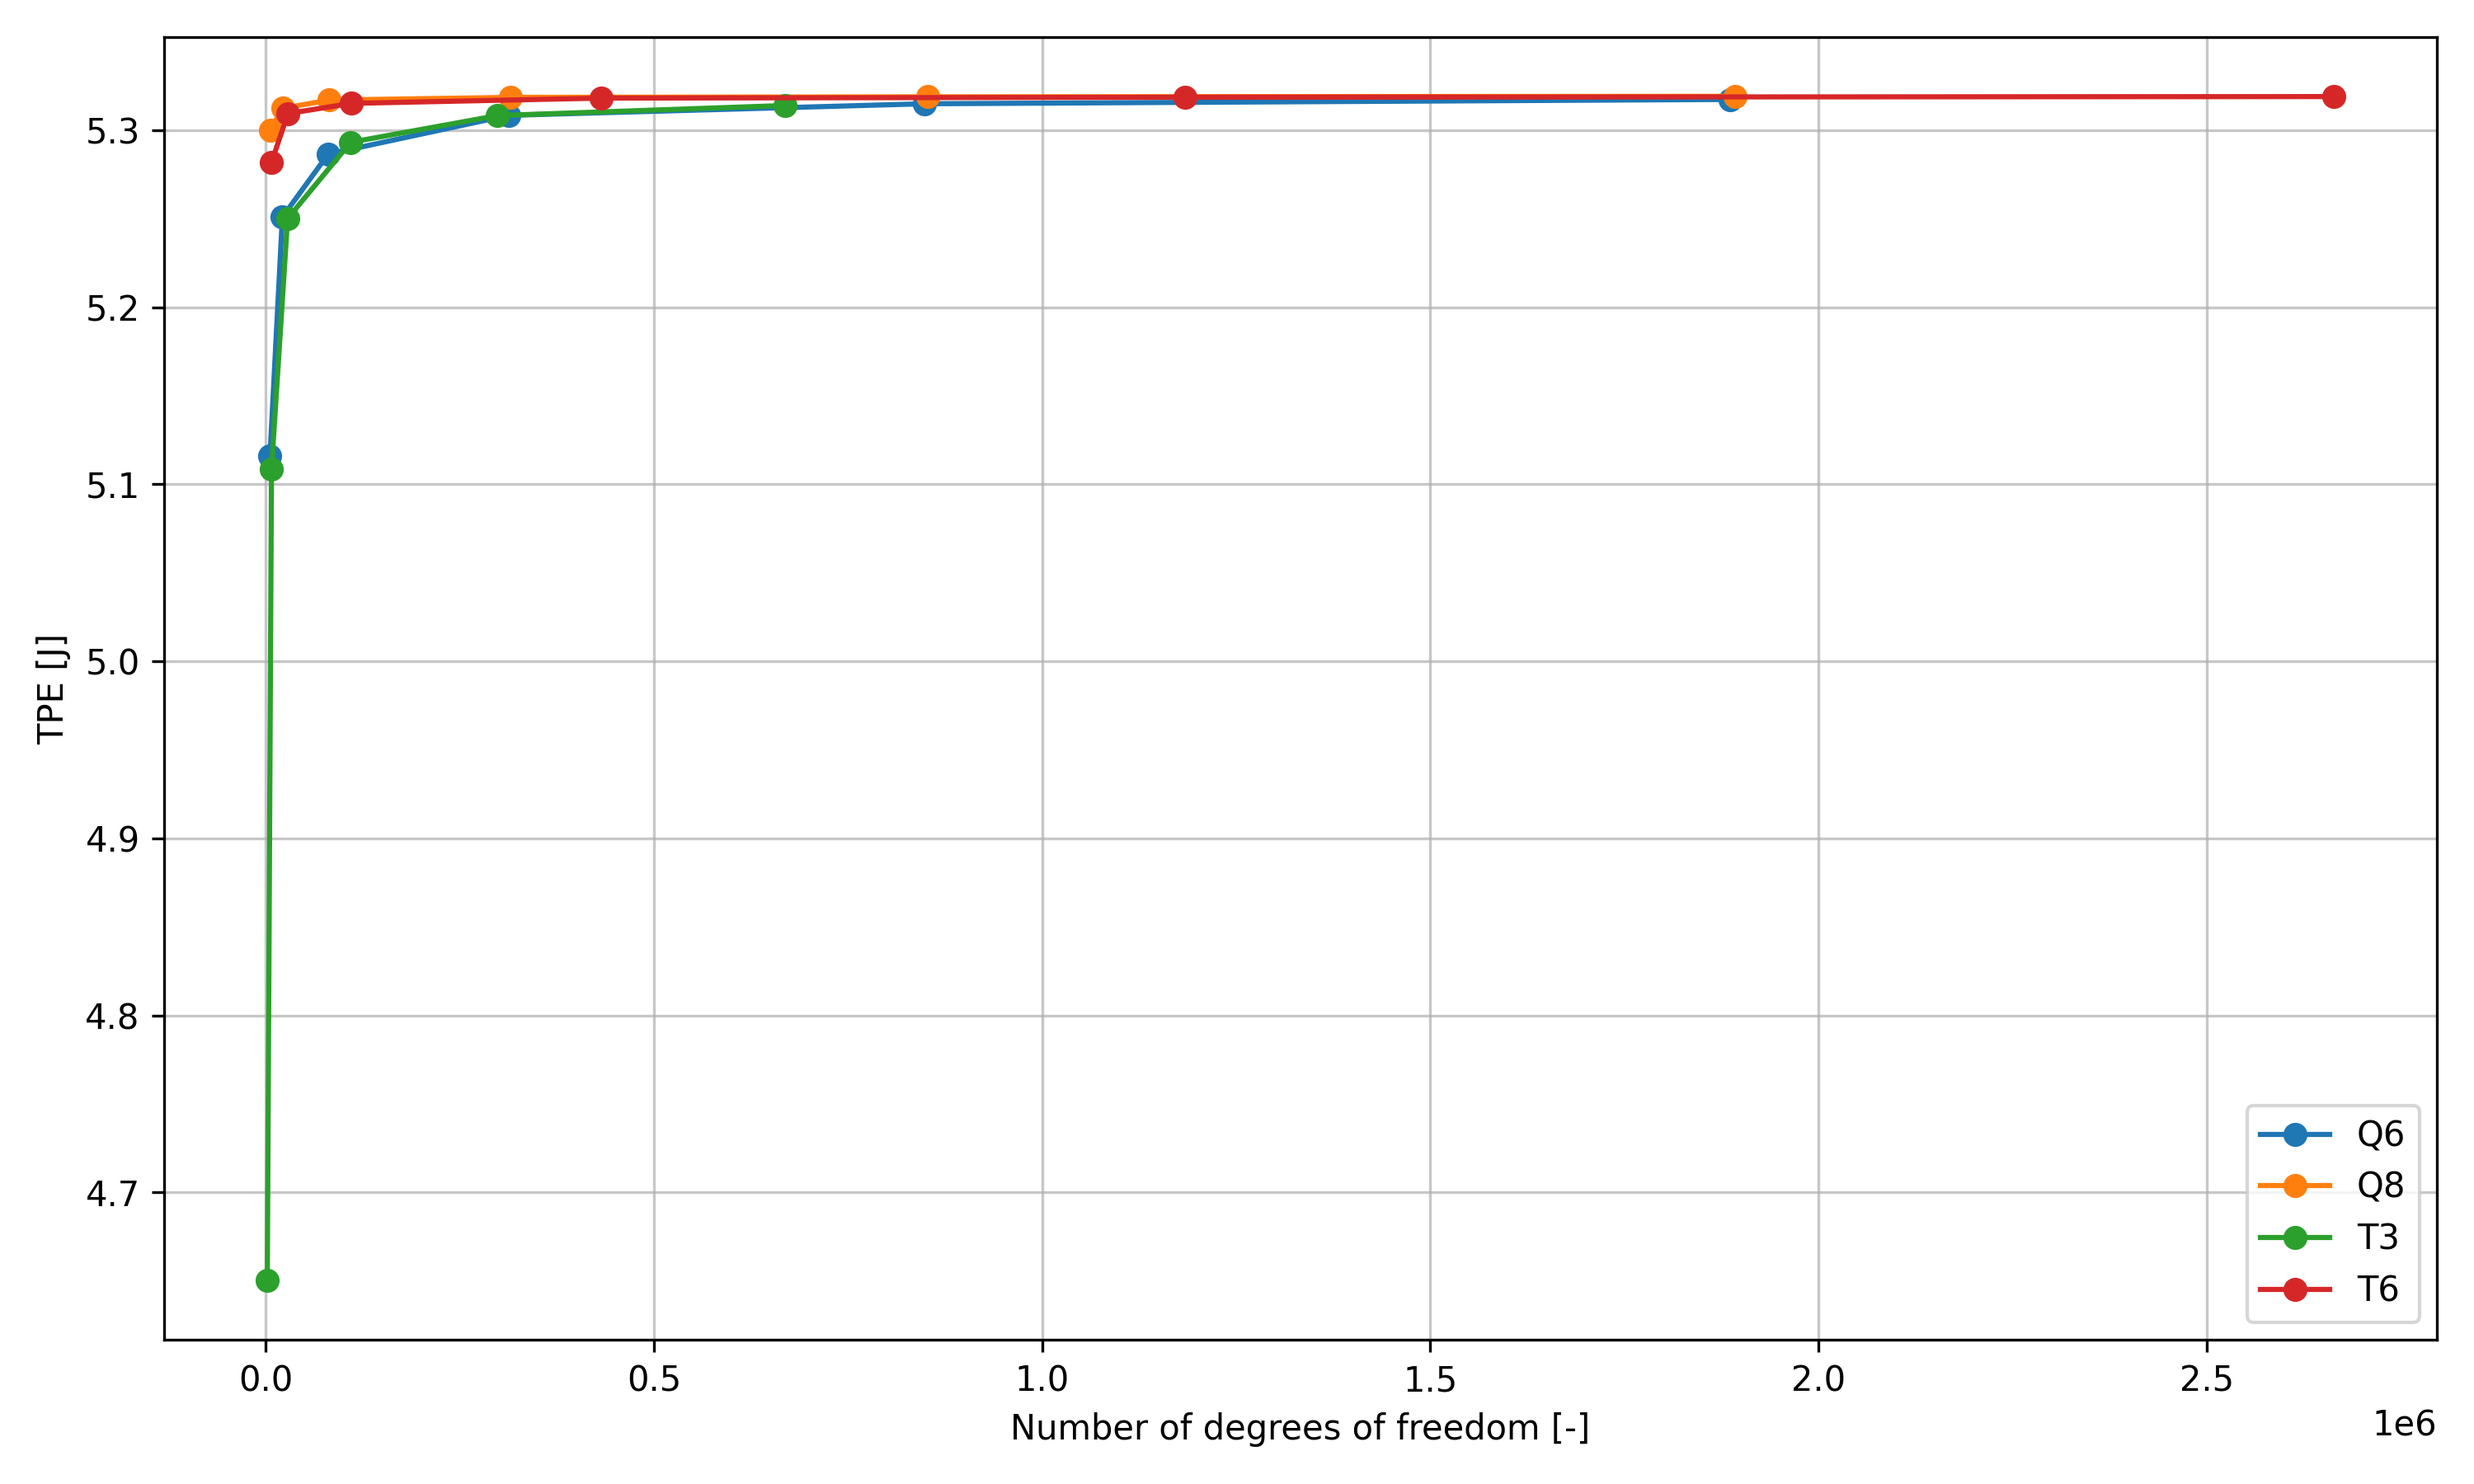
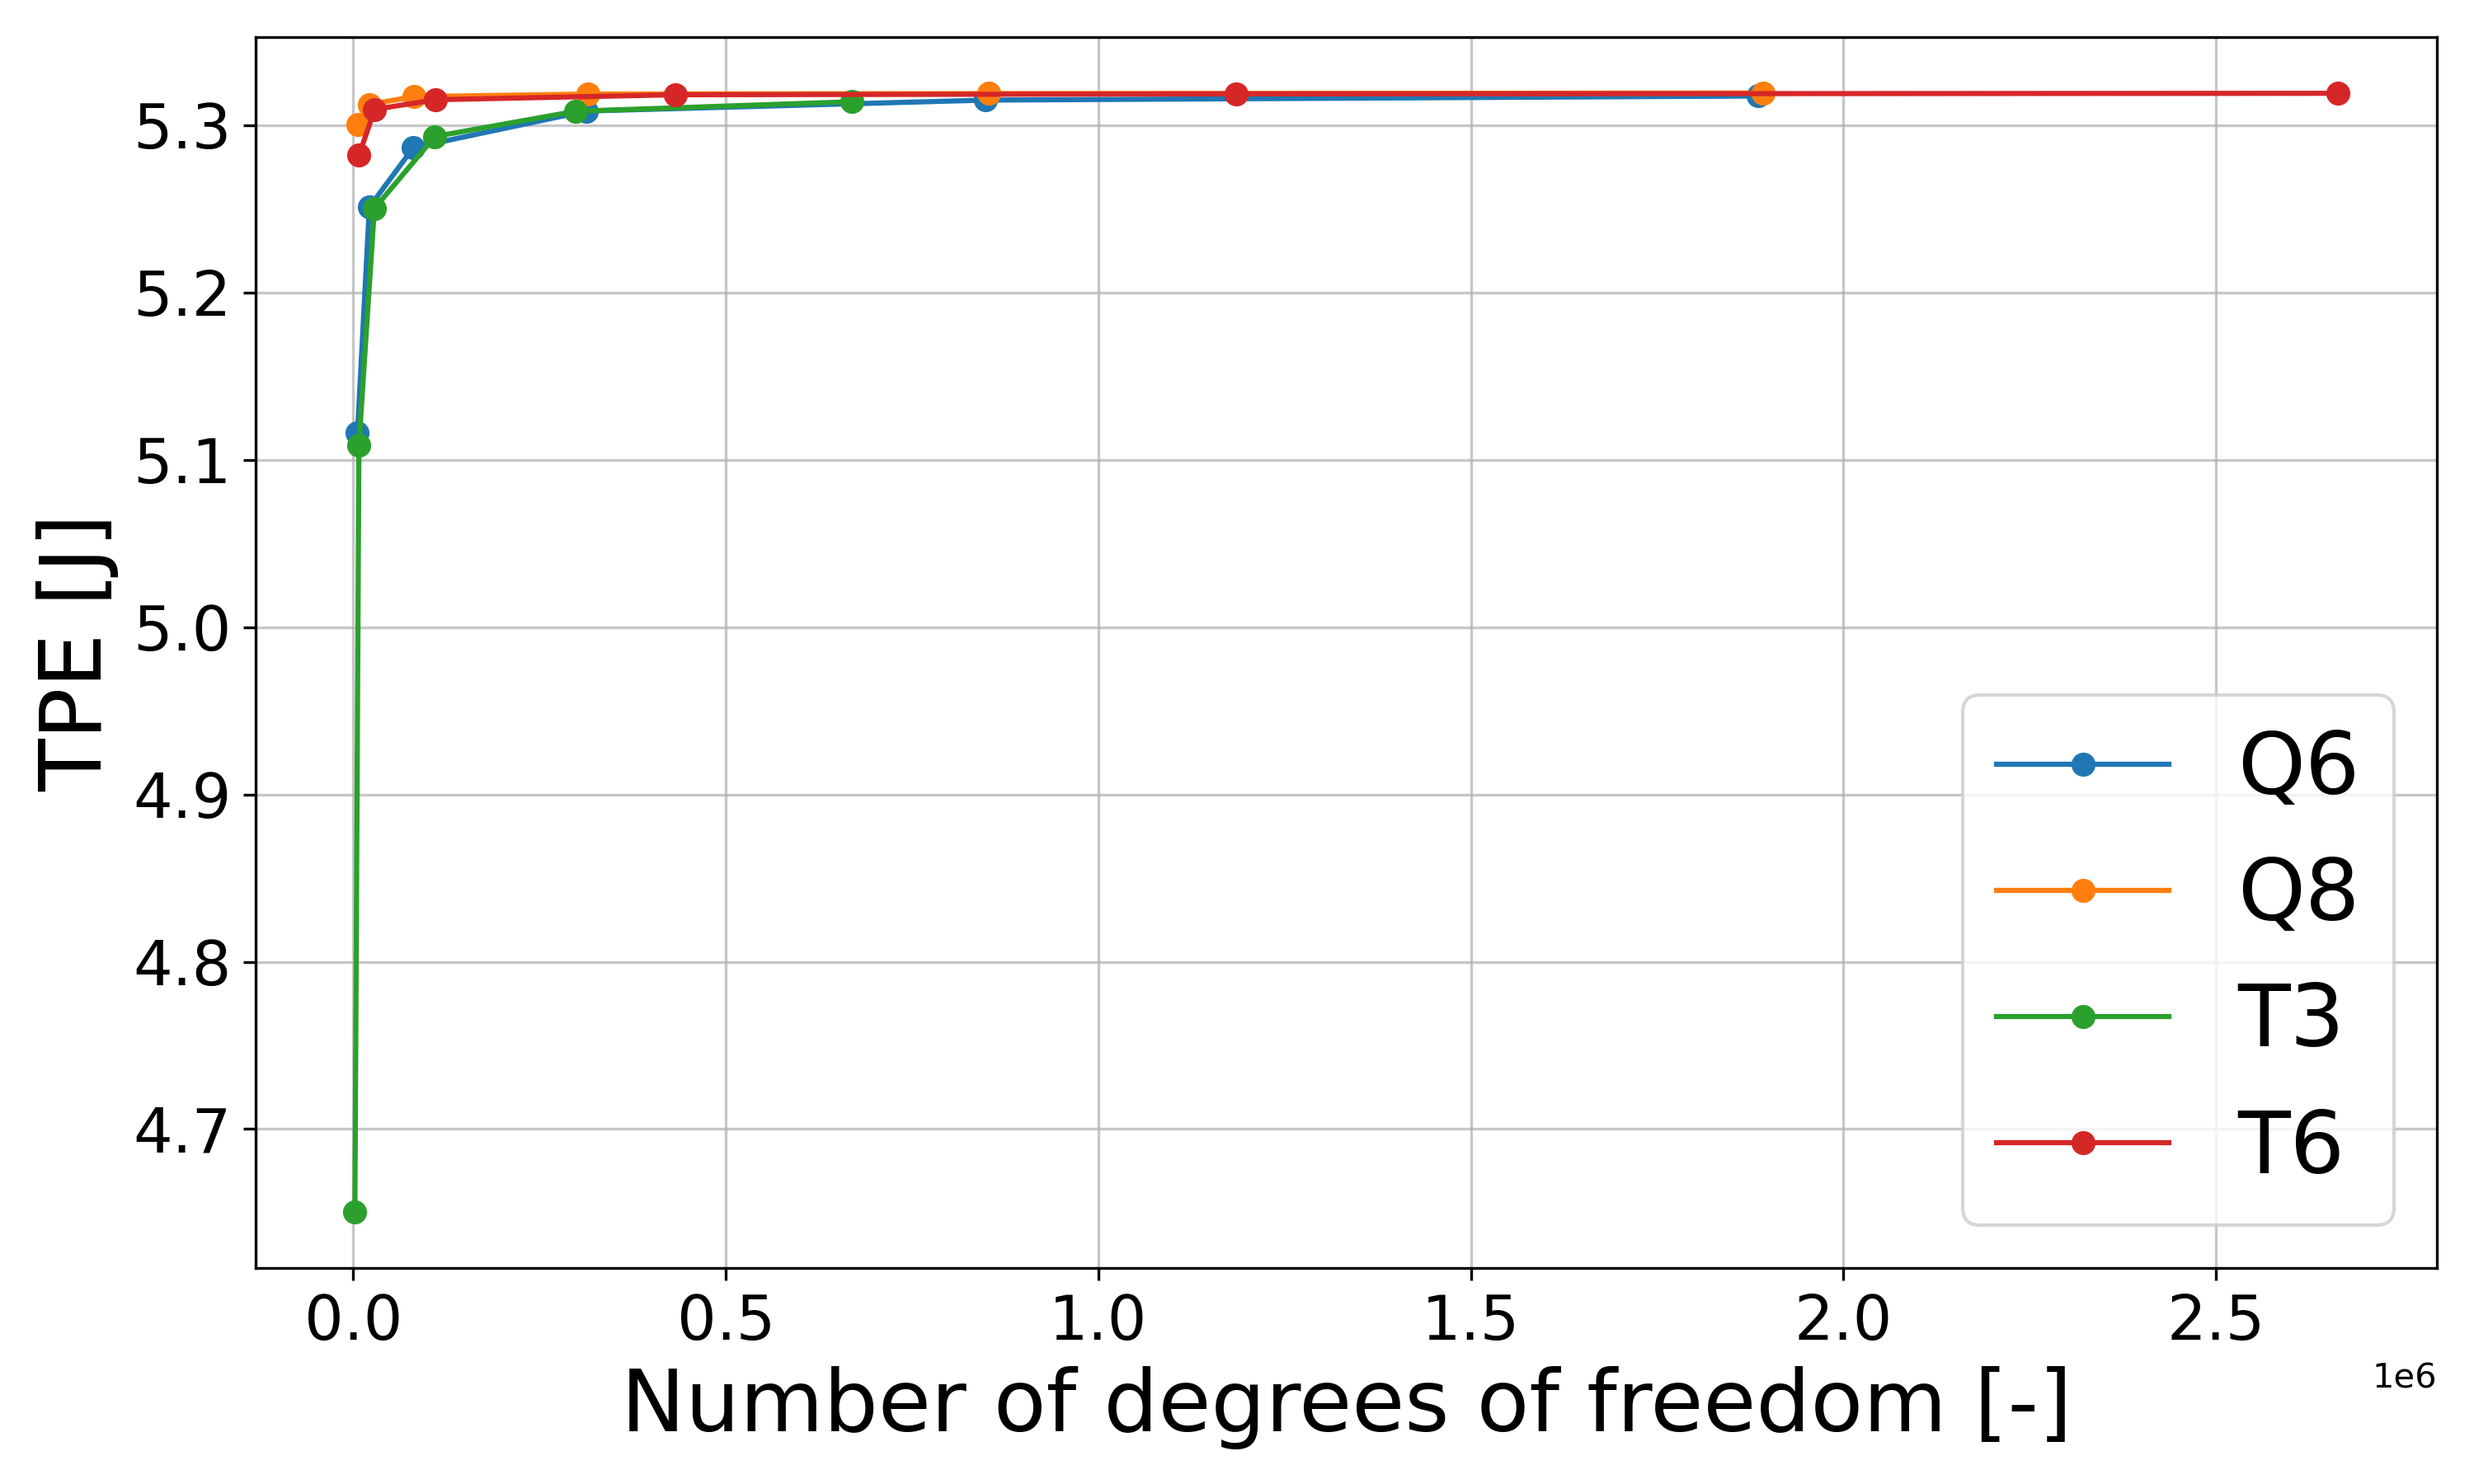
fix: update plotCSV.py and adapt plots fontsize

diff --git a/2_ FEA coarse meshes/plotCSV.py b/2_ FEA coarse meshes/plotCSV.py
@@ -1,6 +1,7 @@
 import pandas as pd
 import matplotlib.pyplot as plt
 import os
+import numpy as np
 
 # Dossiers contenant les fichiers results.csv
 folders = ['Q6', 'Q8', 'T3', 'T6']
@@ -23,34 +24,42 @@ def plot_metric(x_key, y_key,xlabel, ylabel, title, filename, reference_line=Non
     plt.figure(figsize=(10, 6))
     for folder in folders:
         df = data[folder]
+        if x_key == 'NElem':
+            df[x_key] = np.array(df[x_key]) / 1e5 # Conversion to 10^5
+            xlabel = 'Number of elements x $10^5$ [-]'
         plt.plot(df[x_key], df[y_key], marker='o', label=folder)
+        
     if reference_line is not None:
         plt.axhline(reference_line, color='gray',
-                    linestyle='--', label='Référence')
-    plt.xlabel(xlabel)
-    plt.ylabel(ylabel)
+                    linestyle='--', label='Reference')
+    
+        
+    plt.xlabel(xlabel, fontsize=25) 
+    plt.ylabel(ylabel, fontsize=25)
+    plt.xticks(fontsize=18)
+    plt.yticks(fontsize=18)
     #plt.title(title)
-    plt.legend()
+    plt.legend(fontsize=25)
     plt.grid(True, alpha=0.7)
     plt.tight_layout()
     plt.savefig(os.path.join("plot_CSV", filename), dpi=300)
-    plt.close()
+    plt.show()
 
 
 # Tracés demandés
 plot_metric('NElem', 'TPE','Number of elements [-]', 'TPE [J]', "TPE vs NElem", 'TPE_vs_NElem.png')
 plot_metric('NDOF','TPE','Number of degrees of freedom [-]', 'TPE [J]', "TPE vs NDOF", 'TPE_vs_NDOF.png')
-plot_metric('NElem', 'Area','Number of elements [-]', 'Area [$mm^2$]', "Area vs NElem",
+plot_metric('NElem', 'Area','Number of elements [-]', 'Area [mm$^2$]', "Area vs NElem",
             'Area_vs_NElem.png', reference_line=True_area)
-plot_metric('NDOF', 'Area','Number of degrees of freedom [-]', 'Area [$mm^2$]', "Area vs NDOF",
+plot_metric('NDOF', 'Area','Number of degrees of freedom [-]', 'Area [mm$^2$]', "Area vs NDOF",
             'Area_vs_NDOF.png', reference_line=True_area)
-plot_metric('NElem', 'CPU','Number of elements [-]', 'CPU [s]', "CPU vs NElem", 'CPU_vs_NElem.png')
-plot_metric('NDOF', 'CPU','Number of degrees of freedom [-]', 'CPU [s]', "CPU vs NDOF", 'CPU_vs_NDOF.png')
-plot_metric('TPE', 'CPU','TPE [J]', 'CPU [s]', "TPE vs CPU", 'TPE_vs_CPU.png')
+plot_metric('NElem', 'CPU','Number of elements [-]', 'CPU time [s]', "CPU vs NElem", 'CPU_vs_NElem.png')
+plot_metric('NDOF', 'CPU','Number of degrees of freedom [-]', 'CPU time [s]', "CPU vs NDOF", 'CPU_vs_NDOF.png')
+plot_metric('TPE', 'CPU','TPE [J]', 'CPU time [s]', "TPE vs CPU", 'TPE_vs_CPU.png')
 plot_metric('NElem', 'epsilon_max','Number of elements [-]', 'Displacement [mm]','','Displacement_vs_NElem.png')
 
 # Tracés Sigma_i vs NElem (i = 1 à 6)
 for i in range(1, 7):
     sigma_col = f"Sigma_{i}"
-    plot_metric('NElem', sigma_col,'Number of elements [-]', f'{sigma_col} [MPa]',
+    plot_metric('NElem', sigma_col,'Number of elements [-]', f'$\sigma_{i}$ [MPa]',
                 f"Stress in zone {i} vs NElem", f"Stress{i}_vs_NElem.png")
